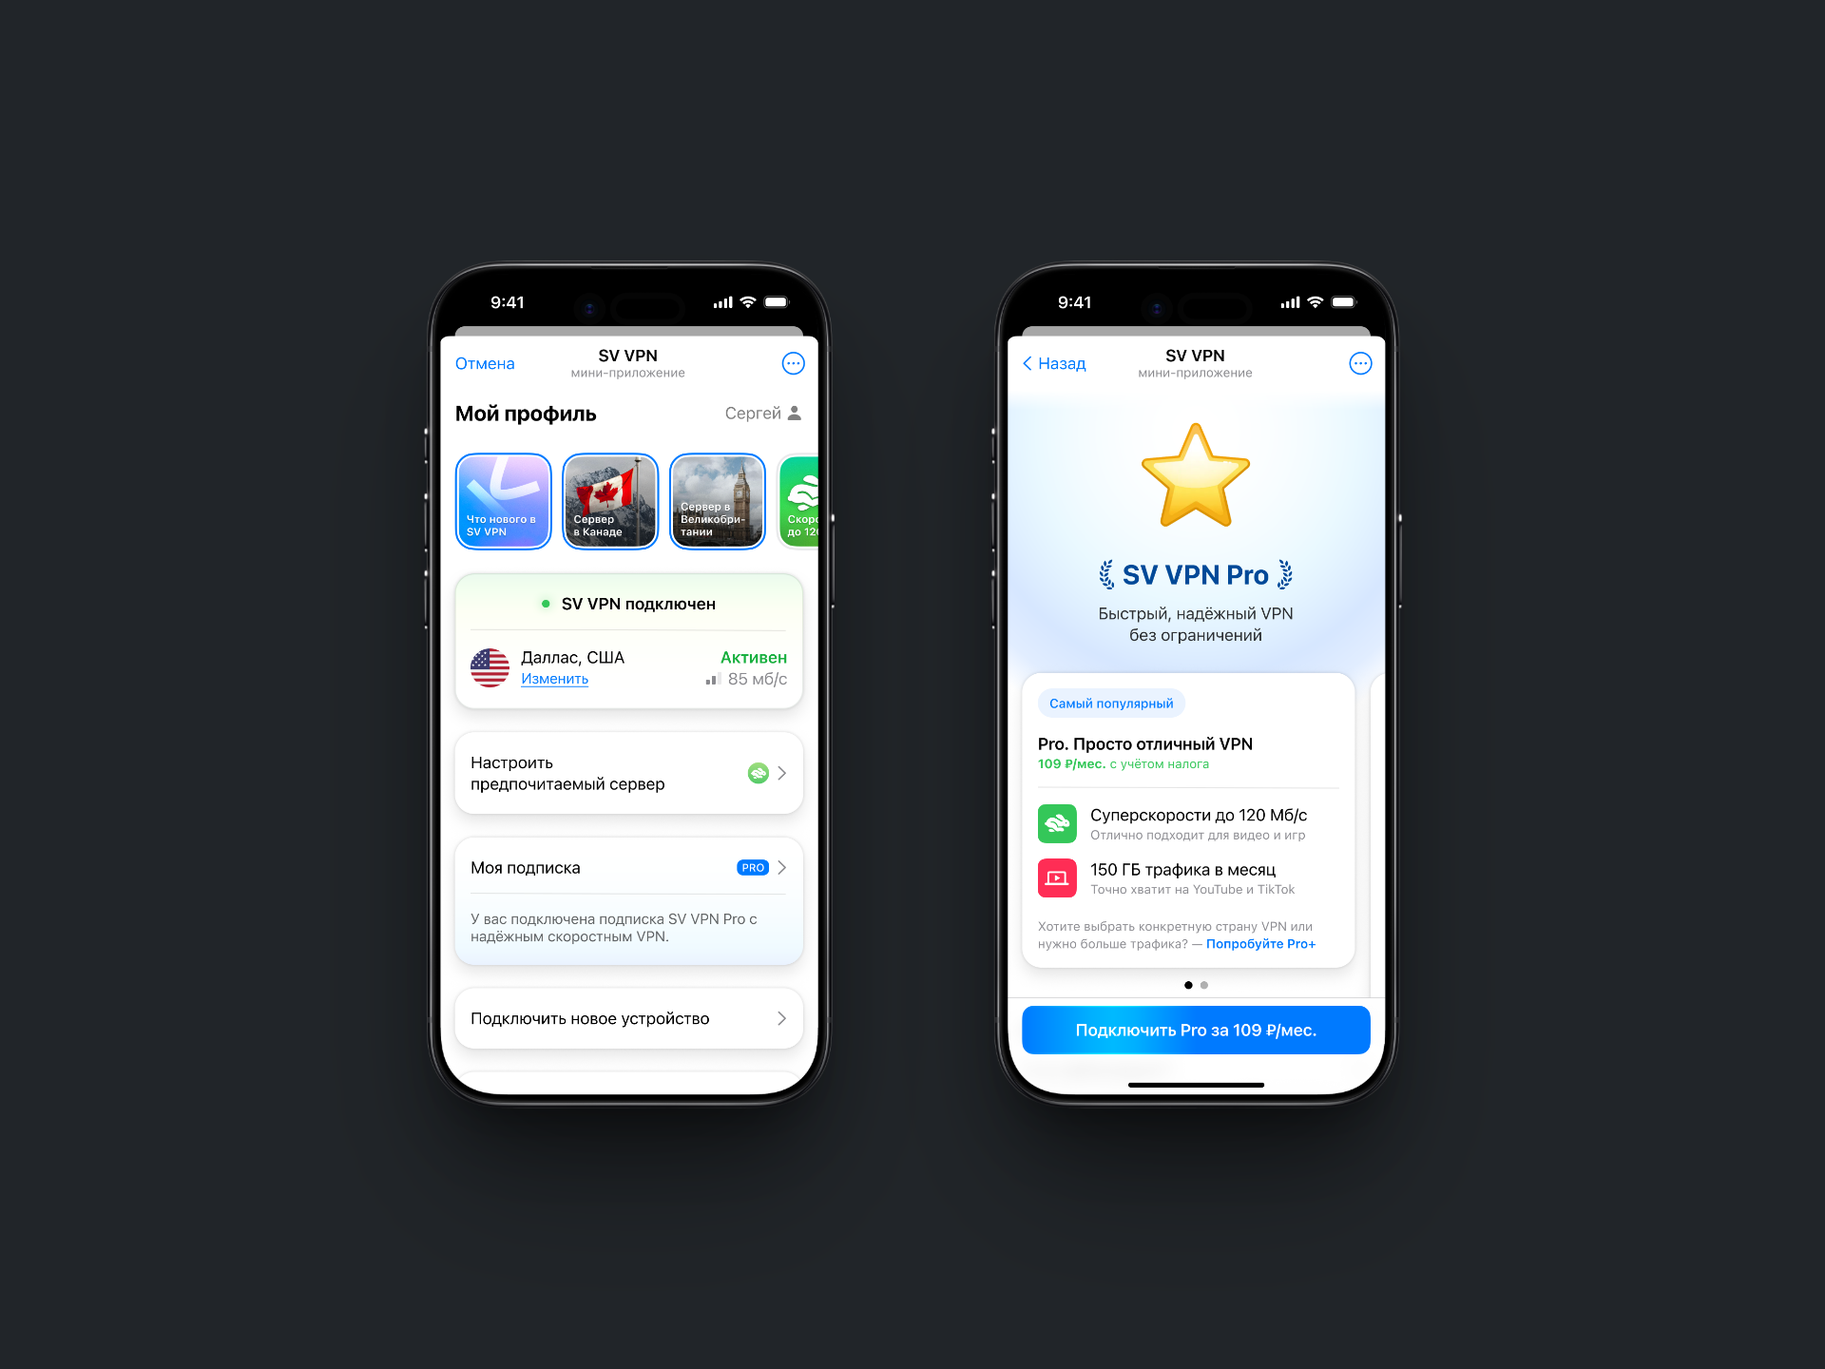
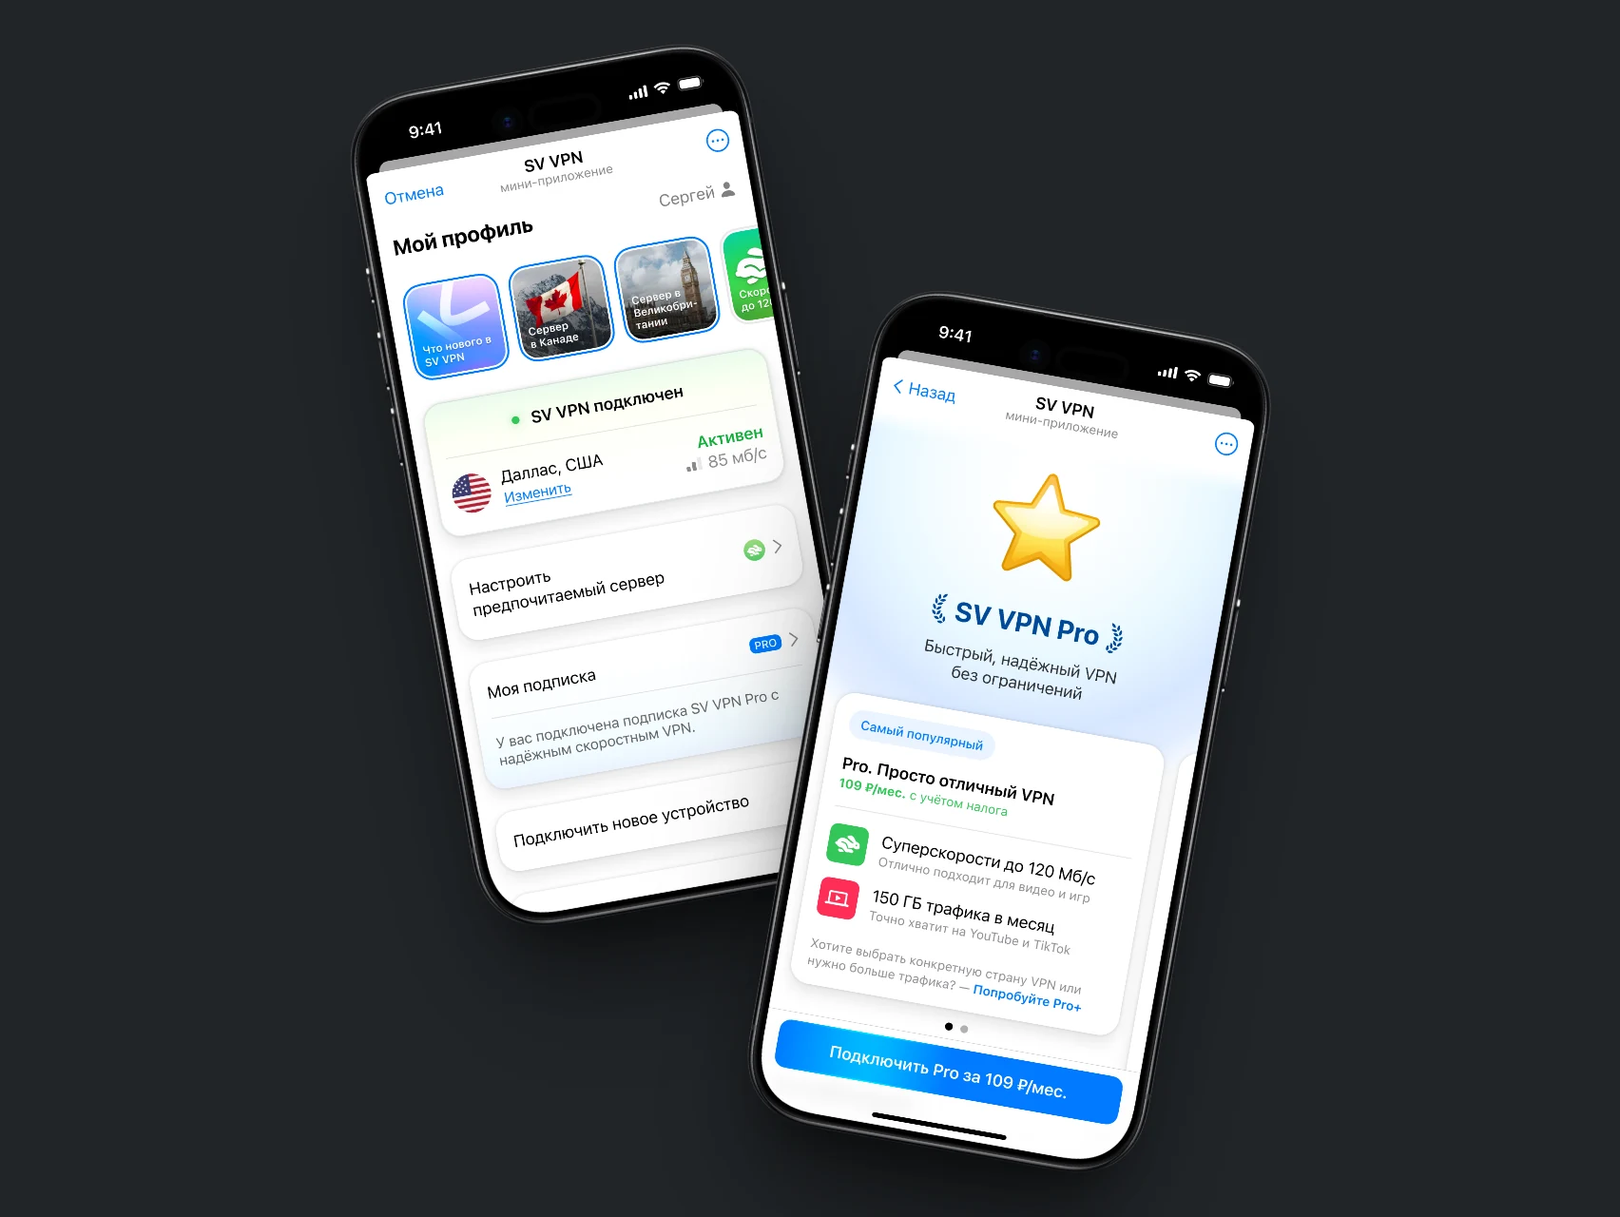
v2: five clouds, wider case covers, pet glides away from nav, single-row works carousel, new VPN and case covers

Changed region(s): [[0.2177, 0.0312, 0.7776, 0.9688]]

diff --git a/v2/site.css b/v2/site.css
@@ -91,20 +91,20 @@ html.lb-open { overflow: hidden; }
 /* Кейсы: пока обычный вертикальный список */
 .cases { display: flex; flex-direction: column; gap: 32px; }
 .case-card { height: var(--card-h, auto); position: relative; --edge: rgb(0 0 0 / .16); --edge-blend: multiply; border-radius: 32px; background: var(--surface); overflow: hidden; max-height: 85vh; }
-.case-card__link { display: grid; grid-template-columns: 1.25fr 1fr; height: 100%; text-decoration: none; color: inherit; }
-.case-card__cover { position: relative; overflow: hidden; min-height: 320px; background: var(--placeholder); }
+.case-card__link { display: grid; grid-template-columns: 1.55fr 1fr; height: 100%; text-decoration: none; color: inherit; }
+.case-card__cover { position: relative; overflow: hidden; min-height: 300px; background: var(--placeholder); }
 .case-card__cover img { position: absolute; inset: 0; width: 100%; height: 100%; object-fit: cover; transition: transform 350ms ease-out; }
 .case-card__link:hover .case-card__cover img { transform: scale(1.07) translate(calc(var(--mx, 0) * -10px), calc(var(--my, 0) * -8px)); }
-.case-card__body { padding: 36px; display: flex; flex-direction: column; gap: 18px; min-width: 0; }
+.case-card__body { padding: 28px 30px; display: flex; flex-direction: column; gap: 14px; min-width: 0; }
 .case-card__meta { display: flex; flex-direction: column; gap: 10px; }
 .case-card__platform { font-size: 16px; font-weight: 400; color: var(--muted); }
 .case-card__stack { display: flex; flex-wrap: wrap; gap: 6px; margin: 0; padding: 0; list-style: none; }
 .case-card__stack li { padding: 4px 11px; border-radius: 999px; background: var(--hover-bg); color: var(--text-2); font-size: 14px; font-weight: 400; }
-.case-card__title { font-size: 28px; line-height: 1.15; font-weight: 700; letter-spacing: -0.02em; margin: 0; }
+.case-card__title { font-size: 26px; line-height: 1.15; font-weight: 700; letter-spacing: -0.02em; margin: 0; }
 .case-card__label { font-size: 14px; font-weight: 400; color: var(--muted); margin: 0 0 4px; }
 .case-card__text { font-size: 16px; line-height: 1.5; font-weight: 400; color: var(--text); margin: 0; }
 .case-card__list { margin: 0; padding-left: 18px; font-size: 16px; line-height: 1.5; color: var(--text); }
-.case-card__list li + li { margin-top: 6px; }
+.case-card__list li + li { margin-top: 4px; }
 .case-card__note { display: block; margin-top: 4px; font-size: 14px; font-weight: 400; color: var(--muted); }
 .case-card__btn { margin-top: auto; align-self: flex-start; display: inline-flex; gap: 8px; align-items: center; padding: 11px 20px; border-radius: 999px; border: 1px solid var(--border-strong); font-size: 16px; font-weight: 500; transition: background .4s ease; }
 .case-card__link:hover .case-card__btn { background: var(--inverse-bg); color: var(--inverse-text); border-color: var(--inverse-bg); }
@@ -145,7 +145,7 @@ html.lb-open { overflow: hidden; }
 .marquee { position: relative; margin: 0 -96px; overflow: hidden; touch-action: pan-y; -webkit-mask-image: linear-gradient(90deg, transparent 0, rgba(0,0,0,.1) 3%, rgba(0,0,0,.35) 6.5%, rgba(0,0,0,.7) 10.5%, rgba(0,0,0,.92) 14.5%, #000 18%, #000 82%, rgba(0,0,0,.92) 85.5%, rgba(0,0,0,.7) 89.5%, rgba(0,0,0,.35) 93.5%, rgba(0,0,0,.1) 97%, transparent 100%); mask-image: linear-gradient(90deg, transparent 0, rgba(0,0,0,.1) 3%, rgba(0,0,0,.35) 6.5%, rgba(0,0,0,.7) 10.5%, rgba(0,0,0,.92) 14.5%, #000 18%, #000 82%, rgba(0,0,0,.92) 85.5%, rgba(0,0,0,.7) 89.5%, rgba(0,0,0,.35) 93.5%, rgba(0,0,0,.1) 97%, transparent 100%); }
 .marquee__track { display: flex; width: max-content; will-change: transform; }
 .marquee__item { flex: none; margin: 0 20px 0 0; padding: 0; border: 0; background: none; cursor: zoom-in; line-height: 0; border-radius: 22px; }
-.marquee__item img { display: block; height: clamp(300px, 52vh, 460px); width: auto; border-radius: 22px; border: 1px solid var(--border); background: var(--placeholder); -webkit-user-drag: none; user-select: none; }
+.marquee__item img { display: block; height: var(--row-h, clamp(300px, 52vh, 460px)); width: auto; border-radius: 22px; border: 1px solid var(--border); background: var(--placeholder); -webkit-user-drag: none; user-select: none; }
 .marquee.is-dragging, .marquee.is-dragging .marquee__item { cursor: grabbing; }
 .marquee.is-static { overflow-x: auto; scrollbar-width: none; }
 .marquee.is-static::-webkit-scrollbar { display: none; }
@@ -349,15 +349,19 @@ html.lb-open { overflow: hidden; }
 .bg-cloud::before, .bg-cloud::after { content: ''; position: absolute; border-radius: 50%; background: inherit; }
 .bg-cloud::before { width: 110px; height: 110px; top: -55px; left: 40px; }
 .bg-cloud::after { width: 80px; height: 80px; top: -36px; right: 50px; }
-.bg-cloud.c1 { top: 12%; left: 8%; }
-.bg-cloud.c2 { top: 52%; left: 62%; transform: scale(.7); opacity: calc(var(--cloud-a) * .75); }
-.bg-cloud.c3 { top: 30%; left: 34%; transform: scale(.5); opacity: calc(var(--cloud-a) * .6); }
+.bg-cloud.c1 { top: 8%; left: 8%; }
+.bg-cloud.c2 { top: 16%; left: 42%; transform: scale(.7); opacity: calc(var(--cloud-a) * .8); }
+.bg-cloud.c3 { top: 30%; left: 68%; transform: scale(.55); opacity: calc(var(--cloud-a) * .65); }
+.bg-cloud.c4 { top: 6%; left: 80%; transform: scale(.6); opacity: calc(var(--cloud-a) * .7); }
+.bg-cloud.c5 { top: 36%; left: 24%; transform: scale(.45); opacity: calc(var(--cloud-a) * .55); }
 @keyframes drift { from { translate: 0 0; } to { translate: calc(100vw + 560px) 0; } }
 @media (prefers-reduced-motion: no-preference) {
-  .bg-cloud { left: -280px !important; animation: drift linear infinite; }
-  .bg-cloud.c1 { animation-duration: 110s; }
-  .bg-cloud.c2 { animation-duration: 150s; animation-delay: -60s; }
-  .bg-cloud.c3 { animation-duration: 190s; animation-delay: -120s; }
+  .bg-cloud { left: -280px !important; animation: drift linear infinite; animation-duration: var(--dur); animation-delay: calc(var(--dur) * var(--f) * -1); }
+  .bg-cloud.c1 { --dur: 120s; --f: .20; }
+  .bg-cloud.c2 { --dur: 150s; --f: .42; }
+  .bg-cloud.c3 { --dur: 190s; --f: .66; }
+  .bg-cloud.c4 { --dur: 170s; --f: .80; }
+  .bg-cloud.c5 { --dur: 210s; --f: .33; }
 }
 
 /* Звёзды в тёмной теме: мерцающие точки в верхней части неба */
@@ -622,3 +626,6 @@ input[type="text"], input:not([type]), textarea { cursor: var(--cur-ibeam) !impo
 /* Нижний отступ страницы: контакты, звезда и навигация без лишней пустоты */
 #contact { padding-bottom: 32px; }
 body[data-page="home"] { padding-bottom: 80px; }
+
+/* Плавный отъезд облачка от навигации после перетаскивания */
+.pet.is-glide { transition: left .6s cubic-bezier(.22, 1, .36, 1), top .6s cubic-bezier(.22, 1, .36, 1), transform .7s cubic-bezier(.6, 0, .3, 1), opacity .5s ease; }

diff --git a/v2/marquee.js b/v2/marquee.js
@@ -4,7 +4,6 @@
 // Курсор ушёл за пределы ленты: она плавно трогается и едет дальше с того места, где остановилась.
 // После закрытия картинки лента снова едет, как только курсор вне ленты.
 // При prefers-reduced-motion движения нет, лента просто листается пальцем или колесом.
-import { works } from './data/works.js';
 import { pick, getLang } from './site.js';
 import { openLightbox } from './lightbox.js';
 
@@ -14,9 +13,10 @@ const EASING = 4;                 // чем больше, тем быстрее 
 const esc = (s) => String(s).replace(/[&<>"']/g, (c) => ({ '&': '&amp;', '<': '&lt;', '>': '&gt;', '"': '&quot;', "'": '&#39;' }[c]));
 const reduce = () => matchMedia('(prefers-reduced-motion: reduce)').matches;
 
-export function mountMarquee(root) {
+// list: работы этой ленты; dir: 1 едет справа налево, -1 слева направо (у двух лент направления встречные)
+export function mountMarquee(root, list, dir = 1) {
   const track = root.querySelector('.marquee__track');
-  const n = works.length;
+  const n = list.length;
   let x = 0, v = 0, setW = 0, raf = 0, last = 0;
   let hover = false, focused = false, lbOpen = false;
   let dragging = false, dragMoved = 0, lastPX = 0, suppressClick = false;
@@ -33,7 +33,7 @@ export function mountMarquee(root) {
     return `<button type="button" class="marquee__item" data-id="${w.id}" aria-label="${esc(alt)}"${clone ? ' tabindex="-1" aria-hidden="true"' : ''}>
       <img src="${esc(w.src)}" width="${w.w}" height="${w.h}" alt="" draggable="false"></button>`;
   }
-  function appendSet(lang, clone) { track.insertAdjacentHTML('beforeend', works.map((w) => itemHtml(w, lang, clone)).join('')); }
+  function appendSet(lang, clone) { track.insertAdjacentHTML('beforeend', list.map((w) => itemHtml(w, lang, clone)).join('')); }
 
   function measure() {
     if (isStatic || track.children.length < n + 1) return;
@@ -50,7 +50,7 @@ export function mountMarquee(root) {
     appendSet(lang, false);
     root.classList.toggle('is-static', isStatic);
     if (!isStatic) { appendSet(lang, true); measure(); }
-    x = 0; v = 0;
+    x = dir < 0 ? -setW / 2 : 0; v = 0; // лента, едущая вправо, стартует с середины набора, чтобы слева не было пустоты
     track.style.transform = '';
     ensure();
   }
@@ -61,7 +61,7 @@ export function mountMarquee(root) {
     const target = paused() ? 0 : SPEED;
     v += (target - v) * (1 - Math.exp(-dt * EASING));
     if (target === 0 && v < 0.05) { v = 0; raf = 0; return; } // полностью остановились, цикл не крутим вхолостую
-    x -= v * dt;
+    x -= dir * v * dt;
     wrap();
     paint();
     raf = requestAnimationFrame(frame);
@@ -120,7 +120,7 @@ export function mountMarquee(root) {
   root.addEventListener('click', (e) => {
     if (suppressClick) return;
     const b = e.target.closest('.marquee__item'); if (!b) return;
-    const w = works.find((k) => k.id === b.dataset.id); if (!w) return;
+    const w = list.find((k) => k.id === b.dataset.id); if (!w) return;
     v = 0; // замираем сразу, чтобы увеличение вышло ровно из миниатюры
     openLightbox(b, { src: w.src, alt: pick(w.alt, getLang()) }, {
       onOpen: () => { lbOpen = true; },

diff --git a/v2/pet.js b/v2/pet.js
@@ -125,8 +125,27 @@ function start() {
   let drag = null, suppressClick = false, drags = 0, carry = 0;
   const POS_KEY = 'pet_pos';
   const clamp = (x, y) => [Math.max(8, Math.min(innerWidth - el.offsetWidth - 8, x)), Math.max(8, Math.min(innerHeight - el.offsetHeight - 8, y))];
-  const place = (x, y, save) => {
+  // Облачко не должно заезжать под нижнюю навигацию и плавающую панель темы и языка: упёршись в них, оно останавливается рядом
+  const OBSTACLES = ['#dock', '#float-controls'];
+  function avoid(x, y) {
+    const w = el.offsetWidth, h = el.offsetHeight, m = 10;
+    for (const sel of OBSTACLES) {
+      const o = document.querySelector(sel); if (!o) continue;
+      const r = o.getBoundingClientRect(); if (!r.width) continue;
+      if (x + w > r.left - m && x < r.right + m && y + h > r.top - m && y < r.bottom + m) {
+        // выходим из зоны по самому короткому пути: вверх, вниз, влево или вправо
+        const opts = [[x, r.top - h - m], [x, r.bottom + m], [r.left - w - m, y], [r.right + m, y]]
+          .filter(([ox, oy]) => ox >= 8 && oy >= 8 && ox + w <= innerWidth - 8 && oy + h <= innerHeight - 8)
+          .sort((a, b) => Math.hypot(a[0] - x, a[1] - y) - Math.hypot(b[0] - x, b[1] - y));
+        if (opts.length) [x, y] = opts[0];
+      }
+    }
+    return [x, y];
+  }
+  // loose = true: пока облачко несут, оно может проходить поверх навигации; зона обходится, когда его отпустили
+  const place = (x, y, save, loose) => {
     [x, y] = clamp(x, y);
+    if (!loose) [x, y] = avoid(x, y);
     el.style.left = x + 'px'; el.style.top = y + 'px'; el.style.bottom = 'auto';
     // пузырь не должен вылезать за экран: у верхнего края он ниже питомца, у правого прижат вправо
     el.classList.toggle('is-top', y < 90); el.classList.toggle('is-right', x > innerWidth - 290);
@@ -150,7 +169,7 @@ function start() {
       say(drags === 4 ? t().again : rnd(t().pick), true);
       carry = setInterval(() => say(rnd(t().carry), true), 2600);
     }
-    place(e.clientX - drag.dx, e.clientY - drag.dy);
+    place(e.clientX - drag.dx, e.clientY - drag.dy, false, true);
   });
   const endDrag = () => {
     if (!drag) return;
@@ -159,6 +178,8 @@ function start() {
     clearInterval(carry);
     el.classList.remove('is-drag'); mood('happy', 'smile', 1100); hop(); activity(); anchorX = null;
     const r = el.getBoundingClientRect();
+    // Отпустили над навигацией: плавно переезжаем в ближайшую свободную точку (вверх или в сторону)
+    el.classList.add('is-glide'); setTimeout(() => el.classList.remove('is-glide'), 700);
     place(r.left, r.top, true);
     suppressClick = true; setTimeout(() => { suppressClick = false; }, 0);
     // реплика зависит от места, куда его поставили

diff --git a/v2/data/works.js b/v2/data/works.js
@@ -1,14 +1,14 @@
 // Визуальные работы: бегущая лента на главной и сетка на /works. Подписей нет.
 // w/h нужны, чтобы страница не прыгала при загрузке картинок. alt нужен для доступности.
 export const works = [
-  { id: 'w1', src: '../uploads/work1.webp', w: 511, h: 1055,
-    alt: { ru: 'Экран мобильного приложения Midnight Screening', en: 'Midnight Screening mobile app screen' } },
-  { id: 'w2', src: '../uploads/work2.webp', w: 1600, h: 1051,
-    alt: { ru: 'Интерфейсная работа', en: 'Interface work' } },
-  { id: 'w3', src: '../uploads/work3.webp', w: 511, h: 1055,
-    alt: { ru: 'Интерфейсная работа', en: 'Interface work' } },
   { id: 'w4', src: '../uploads/work4.webp', w: 511, h: 1055,
     alt: { ru: 'Интерфейсная работа', en: 'Interface work' } },
-  { id: 'w5', src: '../uploads/vpn2.webp', w: 1920, h: 1440,
+  { id: 'w2', src: '../uploads/work2.webp', w: 1600, h: 1051,
+    alt: { ru: 'Интерфейсная работа', en: 'Interface work' } },
+  { id: 'w5', src: '../uploads/vpn2.webp?v=3', w: 1704, h: 1280,
     alt: { ru: 'Telegram Mini App для VPN', en: 'Telegram Mini App for VPN' } },
+  { id: 'w1', src: '../uploads/work1.webp', w: 511, h: 1055,
+    alt: { ru: 'Экран мобильного приложения Midnight Screening', en: 'Midnight Screening mobile app screen' } },
+  { id: 'w3', src: '../uploads/work3.webp', w: 511, h: 1055,
+    alt: { ru: 'Интерфейсная работа', en: 'Interface work' } },
 ];

diff --git a/v2/data/cases.js b/v2/data/cases.js
@@ -17,7 +17,7 @@ export const cases = [
       { ru: '11 из 12 участников (92%) первым кликом попали на рекомендуемую тренировку.', en: '11 of 12 participants (92%) landed on the recommended workout with their first click.' },
       { ru: 'Средний SEQ по трём сценариям: 6.2 из 7.', en: 'Average SEQ across the three scenarios: 6.2 out of 7.' },
     ],
-    cover: '../uploads/rytmo-cover.webp',
+    cover: '../uploads/rytmo-cover2.webp?v=3',
   },
   {
     slug: 'campus',
@@ -35,7 +35,7 @@ export const cases = [
       ru: 'Расписание работает офлайн, пользуются одногруппники.',
       en: 'The schedule works offline, classmates use it.',
     },
-    cover: '../uploads/campus-cover.webp',
+    cover: '../uploads/campus-cover2.webp?v=2',
   },
   {
     slug: 'dispatch',
@@ -52,6 +52,6 @@ export const cases = [
       ru: '15 звонков при сбое заменяются одним массовым действием.',
       en: '15 calls after a failure become one bulk action.',
     },
-    cover: '../uploads/dispatch-cover.webp',
+    cover: '../uploads/dispatch-cover2.webp?v=2',
   },
 ];

diff --git a/v2/home.js b/v2/home.js
@@ -5,6 +5,7 @@ import { t, pick, getLang, applyI18n, FLAGS, CV_URL, TG_URL, MAIL } from './site
 import { video } from './data/video.js';
 import { mountAssistant, mountAssistantPreview } from './assistant.js';
 import { mountMarquee } from './marquee.js';
+import { works } from './data/works.js';
 
 const esc = (s) => String(s).replace(/[&<>"']/g, (c) => ({ '&': '&amp;', '<': '&lt;', '>': '&gt;', '"': '&quot;', "'": '&#39;' }[c]));
 const $ = (id) => document.getElementById(id);
@@ -272,7 +273,7 @@ function renderAll() {
 
 renderAll();
 $('dock').addEventListener('click', (e) => { if (e.target.closest('#dock-top')) window.scrollTo({ top: 0, behavior: reduceMotion() ? 'auto' : 'smooth' }); });
-mountMarquee($('works-marquee'));
+mountMarquee($('works-marquee'), works, 1); // одна лента, порядок задаёт data/works.js
 setupCopy();
 setupStack();
 window.addEventListener('scroll', updateDock, { passive: true });

diff --git a/v2/site.js b/v2/site.js
@@ -147,5 +147,5 @@ if (document.body.dataset.page !== 'case') {
     const size = (0.9 + rnd() * 1.8).toFixed(1);
     return `<i style="left:${(rnd() * 100).toFixed(1)}%;top:${(rnd() * 88).toFixed(1)}%;--s:${size}px;--d:${(2.4 + rnd() * 4).toFixed(1)}s;--t:${(-rnd() * 6).toFixed(1)}s"></i>`;
   }).join('');
-  document.body.insertAdjacentHTML('afterbegin', `<div class="sky" aria-hidden="true"><div class="stars">${stars}</div><span class="bg-cloud c1"></span><span class="bg-cloud c2"></span><span class="bg-cloud c3"></span></div>`);
+  document.body.insertAdjacentHTML('afterbegin', `<div class="sky" aria-hidden="true"><div class="stars">${stars}</div><span class="bg-cloud c1"></span><span class="bg-cloud c2"></span><span class="bg-cloud c3"></span><span class="bg-cloud c4"></span><span class="bg-cloud c5"></span></div>`);
 }
